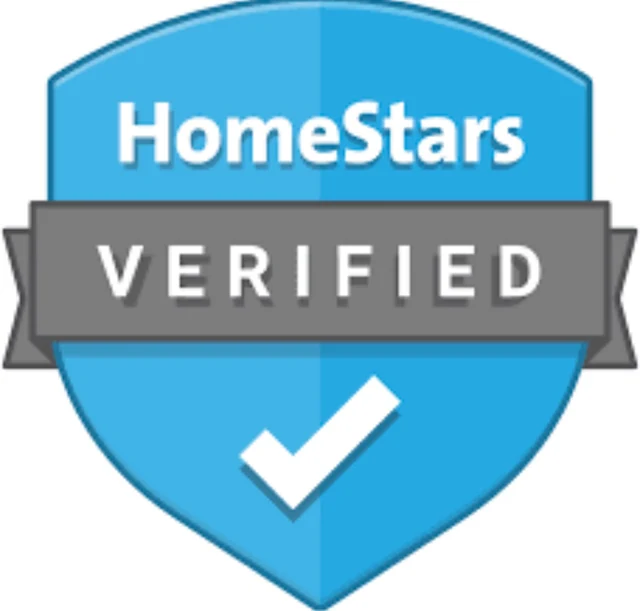
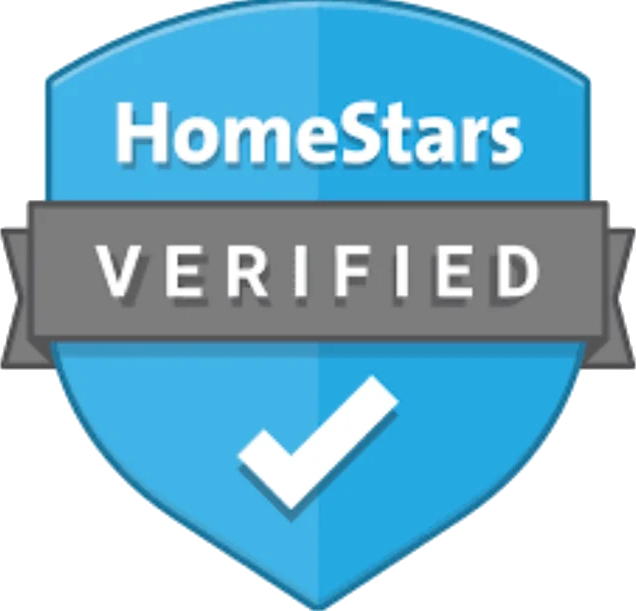
Concept A: transparent WSIB/HomeStars badges, Google rating badge links to reviews

diff --git a/docs/last-nail/a/index.html b/docs/last-nail/a/index.html
@@ -110,14 +110,14 @@
       <div class="shell trust-badges-grid">
         <figure class="trust-badge-card">
           <div class="trust-badge-art trust-badge-art-image">
-            <img src="../assets/img/trust/wsib.webp" width="640" height="564" alt="WSIB logo">
+            <img src="../assets/img/trust/wsib.webp" width="443" height="443" alt="WSIB logo">
           </div>
           <figcaption>WSIB</figcaption>
         </figure>
 
         <figure class="trust-badge-card">
           <div class="trust-badge-art trust-badge-art-image">
-            <img src="../assets/img/trust/homestars-verified.webp" width="640" height="611" alt="HomeStars Verified badge">
+            <img src="../assets/img/trust/homestars-verified.webp" width="636" height="611" alt="HomeStars Verified badge">
           </div>
           <figcaption>HomeStars Verified</figcaption>
         </figure>
@@ -151,9 +151,10 @@
           <figcaption>Fully Insured</figcaption>
         </figure>
 
+        <a class="trust-badge-link" href="https://maps.app.goo.gl/nGgWCPByXzTU6mRLA?g_st=ic" target="_blank" rel="noopener noreferrer" aria-label="5.0 on Google: read 66 Google reviews (opens in a new tab)">
         <figure class="trust-badge-card">
           <div class="trust-badge-art">
-            <svg class="trust-badge-svg" viewBox="0 0 200 200" role="img" aria-label="5.0 rating from 66 Google reviews" xmlns="http://www.w3.org/2000/svg">
+            <svg class="trust-badge-svg" viewBox="0 0 200 200" role="img" aria-label="5.0 rating from 66 Google reviews"xmlns="http://www.w3.org/2000/svg">
               <rect x="14" y="18" width="172" height="164" rx="7" fill="#11110f" stroke="#fbca37" stroke-width="4"/>
               <text x="100" y="66" fill="#fbca37" text-anchor="middle" font-family="Barlow Condensed, Arial Narrow, sans-serif" font-size="25" font-weight="800" letter-spacing="4" textLength="120" lengthAdjust="spacingAndGlyphs">&#9733;&#9733;&#9733;&#9733;&#9733;</text>
               <text x="100" y="124" fill="#f2efe8" text-anchor="middle" font-family="Barlow Condensed, Arial Narrow, sans-serif" font-size="58" font-weight="800">5.0</text>
@@ -161,8 +162,9 @@
               <text x="100" y="161" fill="#f2efe8" text-anchor="middle" font-family="Barlow Condensed, Arial Narrow, sans-serif" font-size="14" font-weight="700" letter-spacing=".55" textLength="94" lengthAdjust="spacingAndGlyphs">66 Google reviews</text>
             </svg>
           </div>
-          <figcaption>5.0 on Google</figcaption>
+          <figcaption>5.0 on Google <span aria-hidden="true">↗</span></figcaption>
         </figure>
+        </a>
 
         <figure class="trust-badge-card">
           <div class="trust-badge-art">

diff --git a/docs/last-nail/a/style.css b/docs/last-nail/a/style.css
@@ -108,7 +108,12 @@ h3 { font-size: clamp(24px, 2.4vw, 36px); }
 .trust-badges-grid { display: grid; grid-template-columns: repeat(6, minmax(0, 1fr)); gap: .65rem; }
 .trust-badge-card { min-width: 0; height: 13rem; display: grid; grid-template-rows: 6.875rem auto; align-content: center; justify-items: center; gap: .75rem; padding: 1.15rem .75rem 1rem; border: 1px solid rgba(242,239,232,.38); border-radius: 2px; color: #17130a; background: #f2efe8; text-align: center; }
 .trust-badge-art { width: 100%; height: 6.875rem; display: flex; align-items: center; justify-content: center; overflow: hidden; }
-.trust-badge-art-image { padding: 0 .35rem; background: #fff; }
+.trust-badge-art-image { padding: 0 .35rem; background: transparent; }
+.trust-badge-link { display: block; min-width: 0; color: inherit; text-decoration: none; }
+.trust-badge-link .trust-badge-card { margin: 0; transition: border-color .2s ease, transform .2s ease; }
+.trust-badge-link:hover .trust-badge-card, .trust-badge-link:focus-visible .trust-badge-card { border-color: var(--yellow); transform: translateY(-2px); }
+.trust-badge-link:focus-visible { outline: 2px solid var(--yellow); outline-offset: 3px; }
+@media (prefers-reduced-motion: reduce) { .trust-badge-link .trust-badge-card { transition: none; } .trust-badge-link:hover .trust-badge-card { transform: none; } }
 .trust-badge-art-image img { display: block; width: auto; max-width: 100%; height: 100%; max-height: 6.875rem; object-fit: contain; object-position: center; }
 .trust-badge-svg { width: 100%; height: 6.875rem; display: block; }
 .trust-badge-card figcaption { max-width: 14rem; color: #25231e; font-size: .875rem; font-weight: 700; line-height: 1.3; text-wrap: balance; }
